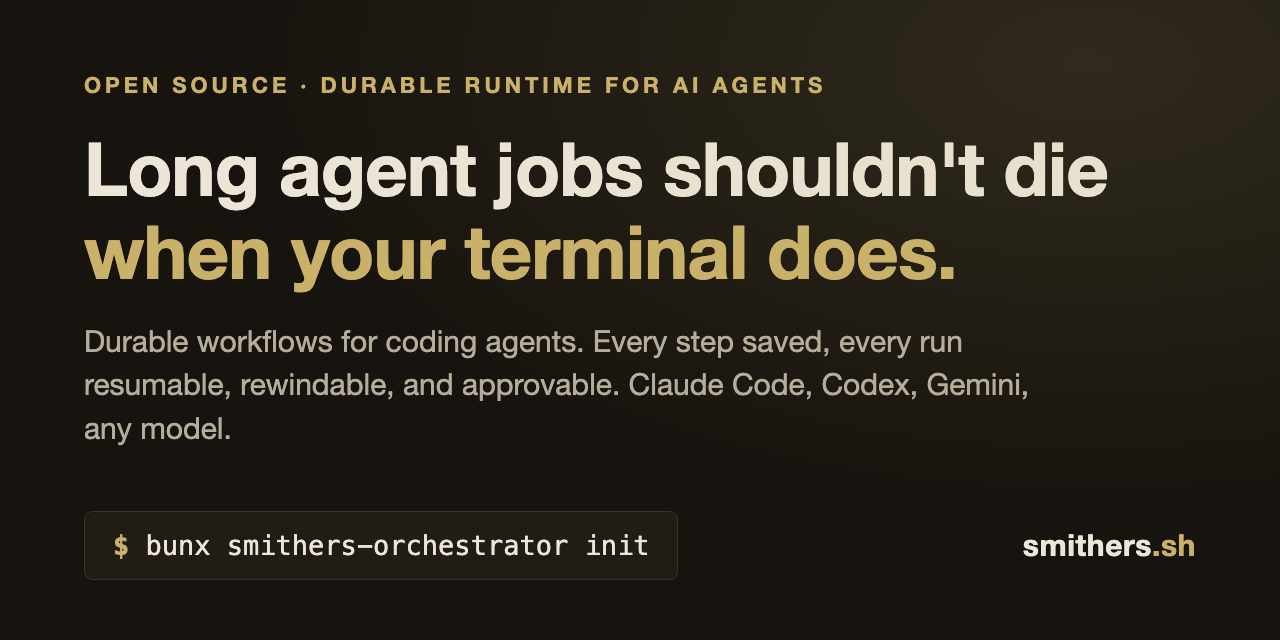
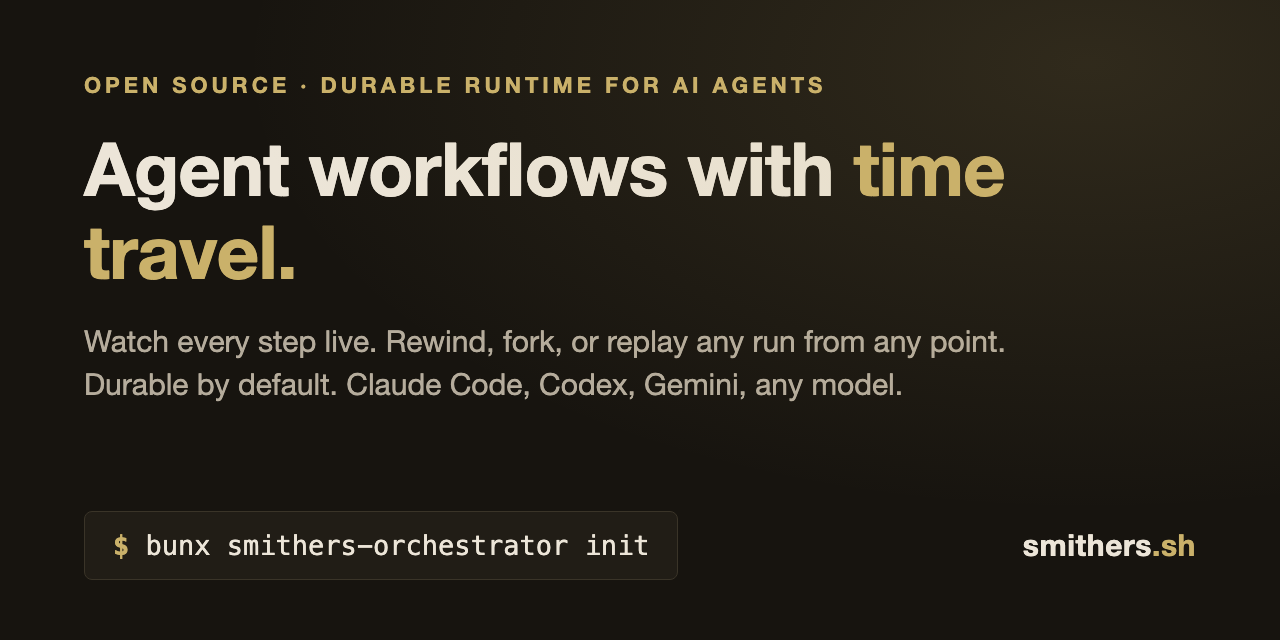
📝 docs: reposition around observability and time travel
Durability read as loss prevention, a second-order pitch. The first-order
capability is composing multi-agent workflows you can watch live and
rewind, fork, or replay from any point. Hero, README first screen, package
metadata, and the social card now lead with that; the crash-resume demo
moves back to the durability section as supporting evidence.

Changed region(s): [[0.0625, 0.2188, 0.875, 0.4688], [0.0625, 0.5, 0.8125, 0.625], [0.0625, 0.6562, 0.1875, 0.6875]]

diff --git a/marketing/social-preview/card.html b/marketing/social-preview/card.html
@@ -49,8 +49,8 @@
   <div class="card">
     <div>
       <div class="eyebrow">Open source · durable runtime for AI agents</div>
-      <h1>Long agent jobs shouldn't die <span class="brass">when your terminal does.</span></h1>
-      <div class="sub">Durable workflows for coding agents. Every step saved, every run resumable, rewindable, and approvable. Claude Code, Codex, Gemini, any model.</div>
+      <h1>Agent workflows with <span class="brass">time travel.</span></h1>
+      <div class="sub">Watch every step live. Rewind, fork, or replay any run from any point. Durable by default. Claude Code, Codex, Gemini, any model.</div>
     </div>
     <div class="footer">
       <div class="cmd"><span class="brass">$</span> bunx smithers-orchestrator init</div>

diff --git a/README.md b/README.md
@@ -1,6 +1,6 @@
 # Smithers
 
-**Long agent jobs shouldn't die when your terminal does.**
+**Agent workflows you can watch live, rewind, fork, and replay.**
 
 [![npm](https://img.shields.io/npm/v/smithers-orchestrator?color=2563eb&label=npm)](https://www.npmjs.com/package/smithers-orchestrator)
 [![CI](https://github.com/smithersai/smithers/actions/workflows/ci.yml/badge.svg)](https://github.com/smithersai/smithers/actions/workflows/ci.yml)
@@ -9,16 +9,19 @@
 [![Awesome Smithers](https://img.shields.io/badge/awesome-smithers-2563eb)](https://github.com/smithersai/awesome-smithers)
 
 Tell your coding agent to do real, multi-step work, then Smithers runs it for minutes or
-days with crash recovery, retries, human approvals, and full observability. The same
-workflow runs across Claude Code, Codex, Pi, AI SDK models, and remote sandboxes.
+days: watch every step live, gate the risky ones behind human approvals, and rewind,
+fork, or replay any run. The same workflow runs across Claude Code, Codex, Pi, AI SDK
+models, and remote sandboxes.
 
-*The demo that matters: a run killed mid-task, then resumed. The completed task is
-skipped, the interrupted task re-runs, the run finishes. No recovery code.*
+*Time travel: fork a run from any earlier frame and branch an alternate timeline. Every
+step is a database row, so live watching, rewind, and replay are built in.*
 
-<img src="./docs/images/why/crash-resume.gif" alt="A Smithers run is killed partway through, then resumes: the completed task is skipped, the in-flight task re-runs as a new attempt, and the run finishes" width="1032" />
+<img src="./docs/images/why/task-fork.gif" alt="Forking a Smithers run from an earlier frame to branch an alternate timeline" width="1032" />
 
 ## What you get
 
+- ⏪ **Full observability and time travel**: watch every step live, then rewind, fork, or
+  replay any run from any point.
 - 🛡 **Durable runs that survive crashes**: every completed step is persisted the moment it
   finishes, so a run resumes from where it stopped instead of starting over.
 - 🔌 **Any agent, any model**: Claude Code, Codex, Pi, Antigravity, and more, plus any model
@@ -296,6 +299,11 @@ prompt → render workflow → run task → validate output → persist to SQLit
 That loop is the whole model: a task runs, its output is validated against a schema and
 written down, then the workflow re-renders from persisted state to decide the next task. A
 crash at any point resumes from the last write, not from the top.
+
+*A run killed mid-task, then resumed: the completed task is skipped, the interrupted task
+re-runs, the run finishes. No recovery code.*
+
+<img src="./docs/images/why/crash-resume.gif" alt="A Smithers run is killed partway through, then resumes: the completed task is skipped, the in-flight task re-runs as a new attempt, and the run finishes" width="1032" />
 
 ```bash
 bunx smithers-orchestrator up workflow.tsx --input '{"description":"Fix bug"}'
